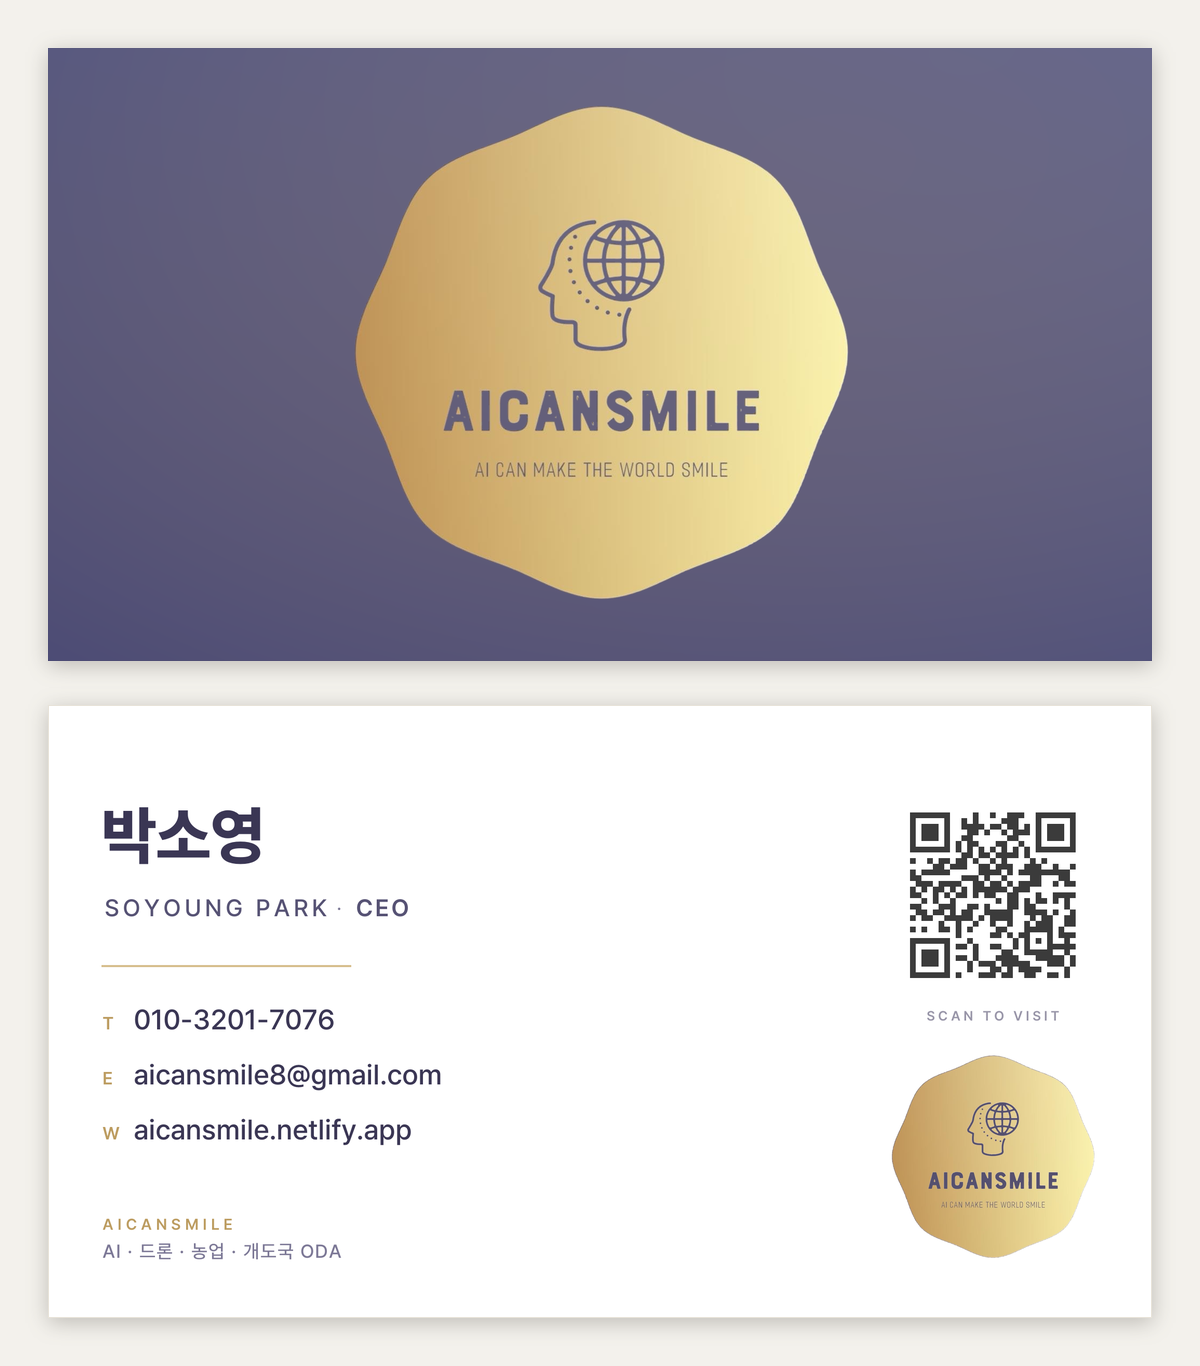
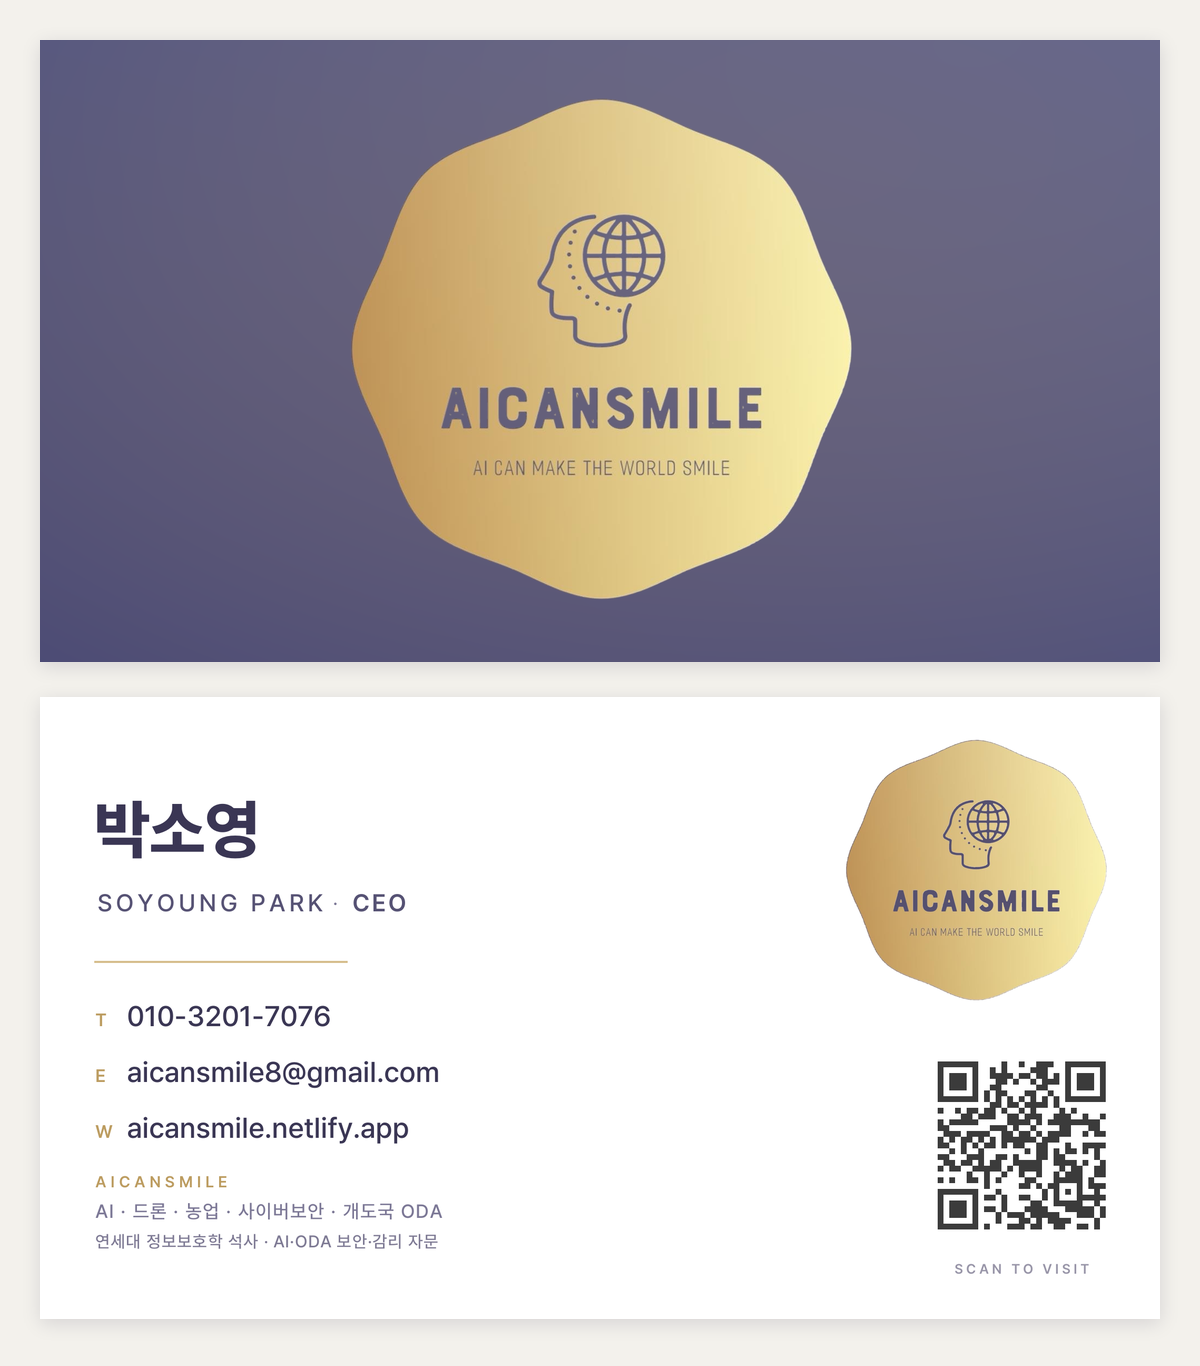
feat(security): 첫 화면·수행역량·자문 영역에 사이버보안(정보보호학 석사)·AI ODA 보안·감리 자문 반영
- Hero 키워드 라인에 CYBERSECURITY 추가, 정보보호학 석사·AI·ODA 보안·감리 자문 한 줄 추가
- 왜 AICANSMILE 03 카드를 사이버보안·정보보호 전문성으로 정리(ISMS-P·표준계약·감리 자문)
- Advisory를 AI Governance & Cybersecurity Advisory로 확장
- About에 연세대 정보보호학 석사·보안/감리 자문 문단 추가
- 디지털 명함·메일 서명 이미지 갱신(전문분야에 사이버보안, 정보보호학 석사 라인)

diff --git a/index.html b/index.html
@@ -3,8 +3,8 @@
 <head>
     <meta charset="UTF-8">
     <meta name="viewport" content="width=device-width, initial-scale=1.0">
-    <title>AICANSMILE — AI·드론으로 농축산 현장을 읽고, 개도국 ODA로 확장합니다</title>
-    <meta name="description" content="AICANSMILE은 드론·AI 비전으로 곤포 사일리지를 자동 탐지·계수하는 SiloVisionX를 서귀포 축산 현장에서 검증하고, 동일 엔진을 몽골 초원의 가축 계수·목초지 모니터링 ODA로 확장합니다.">
+    <title>AICANSMILE — AI·드론·농업에 사이버보안·감리 자문까지, 개도국 ODA로 확장합니다</title>
+    <meta name="description" content="AICANSMILE은 드론·AI 비전으로 곤포 사일리지를 자동 탐지·계수하는 SiloVisionX를 서귀포 축산 현장에서 검증하고, 동일 엔진을 몽골 초원의 가축 계수·목초지 모니터링 ODA로 확장합니다. 연세대 정보보호학 석사 기반의 AI·ODA 사이버보안·감리 자문을 함께 제공합니다.">
     <link rel="stylesheet" href="style.css">
     <link href="https://unpkg.com/aos@2.3.1/dist/aos.css" rel="stylesheet">
 </head>
@@ -37,11 +37,15 @@
         <canvas id="hero-canvas" aria-hidden="true"></canvas>
         <div class="container hero-inner">
             <div class="hero-copy">
-                <p class="hero-eyebrow">AI · DRONE · AGRICULTURE · ODA</p>
+                <p class="hero-eyebrow"><span class="eyebrow-en">AI · DRONE · AGRICULTURE · CYBERSECURITY · ODA</span><span class="eyebrow-ko">AI · 드론 · 농업 · 사이버보안 · 개도국 ODA</span></p>
                 <h1 class="hero-title">AI와 드론의 눈으로 농축산 현장을 읽고,<br>개발도상국 ODA로 확장합니다.</h1>
                 <p class="hero-subtitle">
                     서귀포 축산 현장의 곤포 사일리지 카운팅에서 검증한 드론·AI 객체 인식 기술.<br>
                     같은 비전 엔진으로 몽골 초원의 양떼와 목초지를 읽습니다.
+                </p>
+                <p class="hero-cred">
+                    <span>연세대 정보보호학 석사</span>
+                    <span><strong>AI·ODA 사이버보안·감리 자문</strong></span>
                 </p>
                 <div class="hero-buttons">
                     <a href="#core-solution" class="btn-primary">핵심 솔루션 보기</a>
@@ -290,7 +294,7 @@
             <div class="section-head" data-aos="fade-up">
                 <p class="eyebrow">WHY AICANSMILE</p>
                 <h2 class="section-title">수행 역량</h2>
-                <p class="section-subtitle">현장에서 겪은 문제, 개도국에서 끝까지 수행한 경험, 그리고 직접 만든 기술</p>
+                <p class="section-subtitle">현장에서 겪은 문제, 개도국에서 끝까지 수행한 경험, 직접 만든 기술, 그리고 그 기술을 신뢰받게 하는 사이버보안 역량</p>
             </div>
             <div class="why-grid">
                 <article class="why-card" data-aos="fade-up" data-aos-delay="100">
@@ -314,12 +318,12 @@
                 </article>
                 <article class="why-card" data-aos="fade-up" data-aos-delay="300">
                     <span class="why-num">03</span>
-                    <h3>IT·정보보호 전문성</h3>
+                    <h3>사이버보안·정보보호 전문성</h3>
                     <ul>
-                        <li>삼성전자 IT 실무 경험</li>
-                        <li>연세대학교 정보보호 석사</li>
-                        <li>YOLO·Edge AI 자체 개발 역량</li>
-                        <li>공공·ODA AI 거버넌스·보안 자문</li>
+                        <li>연세대학교 <strong>정보보호학 석사</strong></li>
+                        <li>ISMS-P·데이터 표준계약·AI 거버넌스 실무 교육·과제 수행</li>
+                        <li>공공·ODA <strong>AI 사이버보안·감리 자문</strong></li>
+                        <li>삼성전자 IT 실무 · YOLO·Edge AI 자체 개발 역량</li>
                     </ul>
                     <p class="why-foot">기술을 만들고, 그 기술이 신뢰받도록 설계합니다.</p>
                 </article>
@@ -358,11 +362,12 @@
 
             <div class="advisory" data-aos="fade-up">
                 <div class="advisory-copy">
-                    <h3>AI Governance &amp; Advisory</h3>
-                    <p>AI를 도입하는 조직이 기술과 신뢰를 함께 확보하도록, 거버넌스 체계와 보안을 처음부터 함께 설계합니다. 정보보호 석사와 ISMS-P·데이터 표준계약 실무 교육·과제 수행 경험을 바탕으로 합니다.</p>
+                    <h3>AI Governance &amp; Cybersecurity Advisory</h3>
+                    <p>AI를 도입하는 조직이 기술과 신뢰를 함께 확보하도록, 거버넌스 체계와 사이버보안을 처음부터 함께 설계합니다. 연세대 정보보호학 석사와 ISMS-P·데이터 표준계약 실무 교육·과제 수행 경험을 바탕으로, AI·ODA 사업의 보안 요구사항 정의와 감리 대응까지 지원합니다.</p>
                 </div>
                 <ul class="advisory-badges">
-                    <li>AI 거버넌스·정보보호 자문</li>
+                    <li>AI·ODA 사이버보안 자문</li>
+                    <li>정보보호·개인정보·데이터 계약</li>
                     <li>시스템 신뢰성·보안 진단</li>
                     <li>공공·민간 실무 교육</li>
                 </ul>
@@ -386,8 +391,12 @@
                     </p>
                     <p>
                         만든 기술을 상용화하는 <strong>AI Studio</strong>, 개도국의 문제를 AI로 푸는 <strong>Impact Lab</strong>,
-                        그리고 도입하는 AI가 신뢰받도록 돕는 <strong>AI Governance &amp; Advisory</strong> &mdash;
+                        그리고 도입하는 AI가 신뢰받도록 돕는 <strong>AI Governance &amp; Cybersecurity Advisory</strong> &mdash;
                         세 축이 서로의 실적과 신뢰를 떠받칩니다.
+                    </p>
+                    <p>
+                        특히 <strong>연세대학교 정보보호학 석사</strong>와 ISMS-P·데이터 표준계약 실무 경험을 바탕으로,
+                        AI·ODA 사업에 필요한 <strong>사이버보안·개인정보·감리 자문</strong>을 기술 개발과 함께 제공합니다.
                     </p>
                 </div>
                 <div class="about-side" data-aos="fade-up" data-aos-delay="100">

diff --git a/consulting.html b/consulting.html
@@ -35,7 +35,7 @@
         <div class="container">
             <div class="consulting-header" data-aos="fade-up">
                 <h1 class="consulting-title">📝 AI 컨설팅 신청</h1>
-                <p class="consulting-subtitle">AI 솔루션 도입부터 AI 거버넌스·정보보호 자문, 실무 교육까지 — 전문 컨설턴트와의 상담을 거쳐 진행됩니다.</p>
+                <p class="consulting-subtitle">AI 솔루션 도입부터 AI 거버넌스·사이버보안·감리 자문, 실무 교육까지 — 전문 컨설턴트와의 상담을 거쳐 진행됩니다.</p>
                 <p class="consulting-note"><strong>*표시</strong>는 <strong>필수 입력 내용</strong>입니다.</p>
                 <p class="consulting-contact">문의: <a href="tel:010-3201-7076">010-3201-7076</a> · <a href="mailto:aicansmile8@gmail.com">aicansmile8@gmail.com</a></p>
             </div>
@@ -145,7 +145,7 @@
                     <h2 class="form-section-title">💡 컨설팅 신청 내용</h2>
                     <div class="form-group">
                         <label for="consultingContent">컨설팅 신청 내용 <span class="required">*</span></label>
-                        <textarea id="consultingContent" name="consultingContent" rows="6" placeholder="컨설팅을 원하는 내용(예: AI 거버넌스·정보보호 자문, 보안 진단, 실무 교육, 마이그레이션, 인프라 구축 등)을 상세히 입력해주세요" required></textarea>
+                        <textarea id="consultingContent" name="consultingContent" rows="6" placeholder="컨설팅을 원하는 내용(예: AI 거버넌스·사이버보안 자문, ODA 보안 요구사항·감리 대응, 보안 진단, 실무 교육, 마이그레이션, 인프라 구축 등)을 상세히 입력해주세요" required></textarea>
                     </div>
                     <div class="form-group">
                         <label for="source">신청경로 <span class="required">*</span></label>

diff --git a/style.css b/style.css
@@ -312,6 +312,10 @@ ul {
     letter-spacing: 0.2em;
 }
 
+.hero-eyebrow .eyebrow-ko {
+    display: none;
+}
+
 .hero-title {
     font-size: clamp(1.9rem, 2.85vw, 2.78rem);
     line-height: 1.34;
@@ -325,8 +329,41 @@ ul {
     font-size: 1.03rem;
     line-height: 1.78;
     color: rgba(255, 255, 255, 0.78);
-    margin-bottom: 34px;
+    margin-bottom: 16px;
     max-width: 34rem;
+}
+
+/* 첫 화면에서 보안·감리 역량을 한 줄로 또렷하게 */
+.hero-cred {
+    display: flex;
+    flex-wrap: wrap;
+    align-items: center;
+    gap: 6px 22px;
+    margin-bottom: 34px;
+    font-size: 0.86rem;
+    line-height: 1.5;
+    color: rgba(255, 255, 255, 0.84);
+    letter-spacing: -0.005em;
+}
+
+.hero-cred span {
+    display: inline-flex;
+    align-items: center;
+    gap: 9px;
+}
+
+.hero-cred span::before {
+    content: '';
+    width: 5px;
+    height: 5px;
+    border-radius: 50%;
+    background: var(--gold-soft);
+    flex: 0 0 auto;
+}
+
+.hero-cred strong {
+    color: var(--gold-soft);
+    font-weight: 600;
 }
 
 .hero-buttons {
@@ -1547,6 +1584,26 @@ ul {
 
     .hero-subtitle {
         font-size: 0.94rem;
+    }
+
+    .hero-eyebrow {
+        padding: 6px 12px;
+        font-size: 0.64rem;
+        letter-spacing: 0.1em;
+    }
+
+    .hero-eyebrow .eyebrow-en {
+        display: none;
+    }
+
+    .hero-eyebrow .eyebrow-ko {
+        display: inline;
+    }
+
+    .hero-cred {
+        font-size: 0.8rem;
+        gap: 4px 16px;
+        margin-bottom: 26px;
     }
 
     .hero-buttons {
